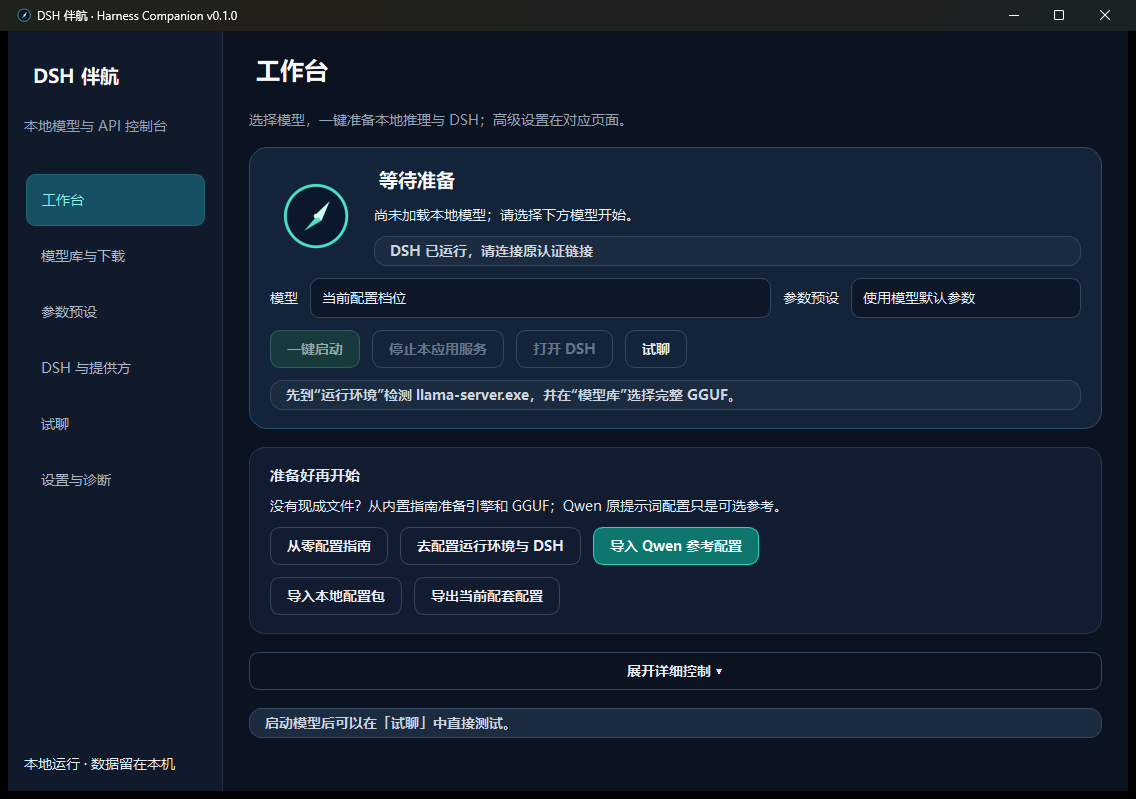
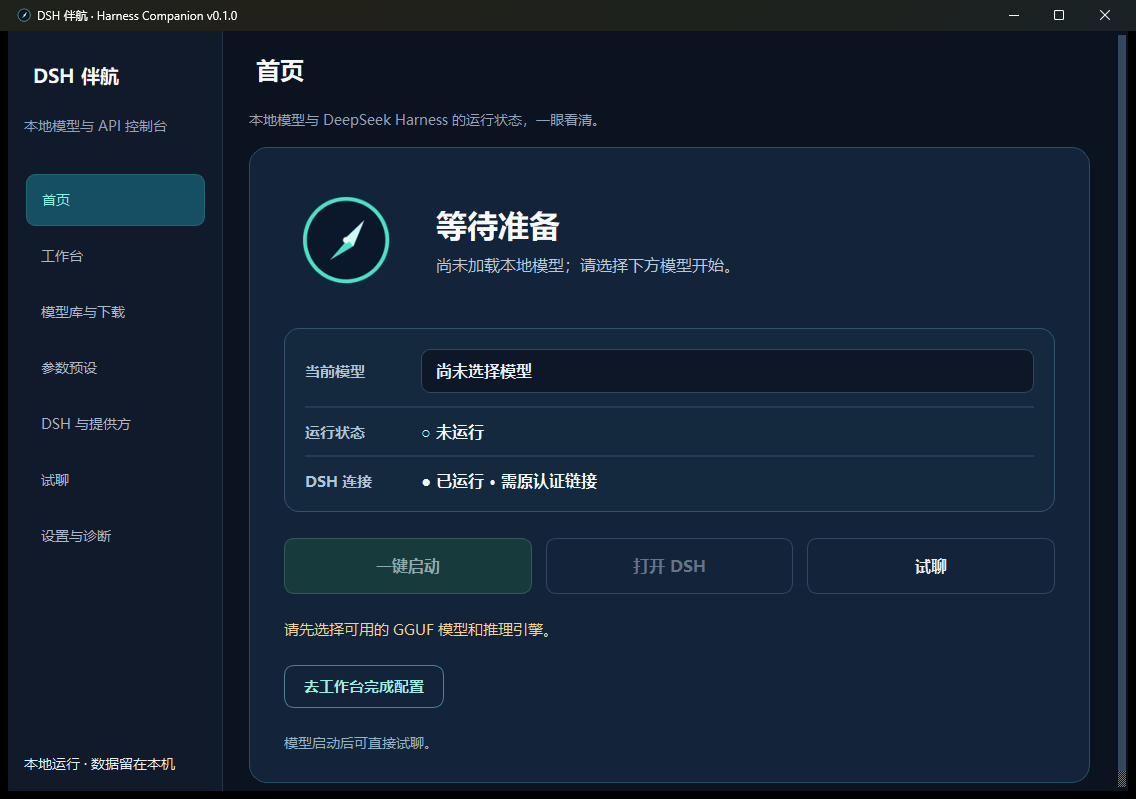
Show redesigned Companion home screen

diff --git a/assets/harness/style.css b/assets/harness/style.css
@@ -1,7 +1,7 @@
 :root{--ink:#16253f;--muted:#68758b;--blue:#3977ed;--teal:#119a9f;--line:#e2eaf4;--paper:#fff;--wash:#f7faff;--radius:22px;--font:Inter,"Noto Sans SC","PingFang SC","Microsoft YaHei UI","Microsoft YaHei",sans-serif}
 *{box-sizing:border-box}html{scroll-behavior:smooth;scroll-padding-top:92px}body{margin:0;background:var(--paper);color:var(--ink);font:15px/1.68 var(--font);-webkit-font-smoothing:antialiased}a{color:inherit;text-decoration:none}button{font:inherit;cursor:pointer}img{display:block;max-width:100%}h1,h2,h3,p,figure{margin:0}.container{width:min(1160px,calc(100% - 64px));margin-inline:auto}:focus-visible{outline:3px solid #6ba4fa;outline-offset:4px;border-radius:6px}.skip-link{position:fixed;left:16px;top:-70px;z-index:50;background:white;padding:10px 15px;border:1px solid var(--blue)}.skip-link:focus{top:14px}
 .site-header{height:76px;border-bottom:1px solid #edf1f7;background:rgba(255,255,255,.96);position:relative;z-index:2}.nav-inner{height:100%;display:flex;align-items:center;gap:17px}.brand{display:flex;align-items:center;gap:9px;font-size:20px;letter-spacing:-.5px;font-weight:750;white-space:nowrap}.brand-wave{width:36px;height:24px;fill:none;stroke:var(--blue);stroke-width:2.2;stroke-linecap:round;stroke-linejoin:round;flex:none}.brand-divider{height:24px;width:1px;background:#d9e2ef}.product-name{font-weight:650;font-size:17px;white-space:nowrap}.nav-links{display:flex;gap:28px;margin-left:auto;font-size:13px;font-weight:600;color:#46556d}.nav-links a:hover,.resource-links a:hover,.text-link:hover,.footer-links a:hover{color:var(--blue)}.nav-status{margin-left:14px;color:#4873ba;background:#edf4ff;padding:6px 11px;border-radius:999px;font-size:11px;white-space:nowrap}
-.hero{overflow:hidden;background:radial-gradient(circle at 85% 34%,#eaf4ff 0,#f8fbff 39%,#fff 68%);border-bottom:1px solid #eef3f9}.hero-grid{min-height:495px;display:grid;grid-template-columns:minmax(0,.92fr) minmax(0,1.08fr);gap:52px;align-items:center;padding-top:52px;padding-bottom:48px}.eyebrow{font-size:11px;letter-spacing:.23em;color:#3977ed;font-weight:750}.hero-copy{position:relative;z-index:1}.hero-copy h1{font-size:clamp(42px,4.6vw,62px);letter-spacing:-.045em;line-height:1.25;margin:24px 0 23px;font-weight:750}.hero-copy h1 span{color:#3374d4}.hero-lead{font-size:18px;color:#41516c;max-width:490px}.hero-actions{display:flex;flex-wrap:wrap;gap:12px;margin-top:28px}.button{display:inline-flex;align-items:center;justify-content:center;gap:15px;border-radius:10px;min-height:48px;padding:0 22px;font-size:14px;font-weight:700;white-space:nowrap;border:1px solid transparent;transition:transform .15s ease,box-shadow .15s ease,background .15s ease}.button:hover{transform:translateY(-2px)}.button-primary{background:linear-gradient(120deg,#168eaa,#129d98);box-shadow:0 9px 23px #1794a329;color:white}.button-primary.pending{opacity:.83;cursor:default}.button-primary.pending:hover{transform:none}.button-secondary{background:white;border-color:#c8d8ed;color:#173957}.button-secondary:hover{box-shadow:0 6px 20px #234a7113}.hero-meta{margin-top:14px;color:#718097;font-size:12px}.hero-figure{position:relative;isolation:isolate;min-width:0}.image-halo{position:absolute;z-index:-1;inset:5% -3% 7% -3%;background:radial-gradient(circle,#d5ecff,transparent 67%);filter:blur(20px)}.hero-figure img{width:100%;height:auto;aspect-ratio:1140/791;object-fit:contain;border:1px solid #9bb1ca;border-radius:13px;box-shadow:0 26px 45px #172b4e35,0 2px 8px #172b4e26;background:#142234}.hero-figure figcaption{text-align:right;color:#7c89a2;font-size:11px;letter-spacing:.04em;margin-top:11px}
+.hero{overflow:hidden;background:radial-gradient(circle at 85% 34%,#eaf4ff 0,#f8fbff 39%,#fff 68%);border-bottom:1px solid #eef3f9}.hero-grid{min-height:495px;display:grid;grid-template-columns:minmax(0,.92fr) minmax(0,1.08fr);gap:52px;align-items:center;padding-top:52px;padding-bottom:48px}.eyebrow{font-size:11px;letter-spacing:.23em;color:#3977ed;font-weight:750}.hero-copy{position:relative;z-index:1}.hero-copy h1{font-size:clamp(42px,4.6vw,62px);letter-spacing:-.045em;line-height:1.25;margin:24px 0 23px;font-weight:750}.hero-copy h1 span{color:#3374d4}.hero-lead{font-size:18px;color:#41516c;max-width:490px}.hero-actions{display:flex;flex-wrap:wrap;gap:12px;margin-top:28px}.button{display:inline-flex;align-items:center;justify-content:center;gap:15px;border-radius:10px;min-height:48px;padding:0 22px;font-size:14px;font-weight:700;white-space:nowrap;border:1px solid transparent;transition:transform .15s ease,box-shadow .15s ease,background .15s ease}.button:hover{transform:translateY(-2px)}.button-primary{background:linear-gradient(120deg,#168eaa,#129d98);box-shadow:0 9px 23px #1794a329;color:white}.button-primary.pending{opacity:.83;cursor:default}.button-primary.pending:hover{transform:none}.button-secondary{background:white;border-color:#c8d8ed;color:#173957}.button-secondary:hover{box-shadow:0 6px 20px #234a7113}.hero-meta{margin-top:14px;color:#718097;font-size:12px}.hero-figure{position:relative;isolation:isolate;min-width:0}.image-halo{position:absolute;z-index:-1;inset:5% -3% 7% -3%;background:radial-gradient(circle,#d5ecff,transparent 67%);filter:blur(20px)}.hero-figure img{width:100%;height:auto;aspect-ratio:1136/799;object-fit:contain;border:1px solid #9bb1ca;border-radius:13px;box-shadow:0 26px 45px #172b4e35,0 2px 8px #172b4e26;background:#142234}.hero-figure figcaption{text-align:right;color:#7c89a2;font-size:11px;letter-spacing:.04em;margin-top:11px}
 .features{border-bottom:1px solid #e9eff7}.feature-grid{display:grid;grid-template-columns:repeat(4,1fr);padding-top:24px;padding-bottom:24px}.feature{display:flex;align-items:center;gap:14px;padding:6px 22px;border-right:1px solid #e6edf7}.feature:first-child{padding-left:0}.feature:last-child{border:0;padding-right:0}.feature-icon{width:48px;height:48px;border-radius:50%;background:#e9f6ff;display:grid;place-items:center;color:#188da8;font-size:24px;font-weight:500;flex:none}.feature h2{font-size:15px;line-height:1.25}.feature p{font-size:11px;color:var(--muted);margin-top:4px;white-space:nowrap}
 .section{padding:74px 0}.steps-section{background:linear-gradient(#f9fbff,#f5f9fe)}.section-heading h2{font-size:36px;line-height:1.3;letter-spacing:-.04em;margin-top:11px}.section-heading p:last-child{color:var(--muted);margin-top:9px}.centered{text-align:center}.steps{list-style:none;margin:44px 0 0;padding:0;display:grid;grid-template-columns:repeat(3,1fr);gap:23px}.steps li{position:relative;background:white;border:1px solid #e4edf8;border-radius:var(--radius);padding:24px 26px 27px;box-shadow:0 13px 35px #29436308}.step-number{color:#3977ed;font-size:21px;font-weight:750}.step-icon{float:right;width:44px;height:44px;border-radius:50%;display:grid;place-items:center;background:#e9f9fc;color:#15969b;font-size:24px}.steps h3{font-size:18px;margin-top:20px}.steps p{color:var(--muted);font-size:13px;margin-top:9px}.resource-strip{display:flex;align-items:center;justify-content:space-between;gap:30px;background:white;border:1px solid var(--line);border-radius:15px;padding:20px 25px;margin-top:26px}.resource-strip strong{font-size:14px}.resource-strip p{font-size:12px;color:var(--muted);margin-top:2px}.resource-links{display:flex;flex-wrap:wrap;justify-content:flex-end;gap:10px 18px;font-size:12px;font-weight:650;color:#2c6bd7}
 .qwen-section{padding-bottom:55px}.qwen-grid{display:grid;grid-template-columns:1fr 1fr;gap:74px;align-items:center}.qwen-copy h2{font-size:34px;letter-spacing:-.04em;line-height:1.42;margin:14px 0 20px}.qwen-copy>p:not(.eyebrow){color:#53647c;max-width:485px}.text-link{display:inline-flex;gap:9px;color:#2f72df;font-weight:700;font-size:14px;margin-top:21px}.recipe-card{background:#f7faff;border:1px solid #d7e5f6;border-radius:15px;padding:20px;box-shadow:0 15px 30px #17395b0b}.recipe-head{display:flex;align-items:center;justify-content:space-between;padding:0 3px 12px}.recipe-head strong{font-size:15px}.recipe-head span{color:#3977ed;background:#e6f0ff;padding:4px 10px;border-radius:99px;font-size:11px}.recipe-row{display:grid;grid-template-columns:110px 1fr;gap:15px;padding:11px 10px;background:white;border-bottom:1px solid #e8eef6;line-height:1.4}.recipe-row:first-of-type{border-radius:9px 9px 0 0}.recipe-row:nth-last-of-type(1){border-radius:0 0 9px 9px;border:0}.recipe-row span{font-size:12px;color:var(--muted)}.recipe-row strong{font-size:12px;font-weight:650}.recipe-card>p{font-size:11px;color:var(--muted);padding:13px 3px 0}.resource-detail{margin-top:53px;border-top:1px solid var(--line);padding-top:32px}.resource-heading h3{font-size:20px}.resource-heading p{color:var(--muted);font-size:13px;margin-top:3px}.resource-list{display:grid;grid-template-columns:1fr 1fr;gap:12px 26px;margin-top:21px}.resource-list>div{display:flex;gap:13px;padding:16px 18px;border:1px solid #e7edf6;border-radius:12px}.resource-num{flex:none;width:26px;height:26px;border-radius:50%;display:grid;place-items:center;background:#eaf3ff;color:#2e70d0;font-weight:750;font-size:13px}.resource-list strong{font-size:14px}.resource-list p{color:var(--muted);font-size:12px;margin-top:4px}.resource-list a{color:#2d6ed4;text-decoration:underline;text-underline-offset:2px}.resource-list code{color:#334c69;background:#f2f6fb;padding:1px 4px;border-radius:3px;overflow-wrap:anywhere}

diff --git a/harness/index.html b/harness/index.html
@@ -42,8 +42,8 @@
         </div>
         <figure class="hero-figure">
           <div class="image-halo" aria-hidden="true"></div>
-          <a class="hero-shot" href="/assets/harness/companion-desktop.png" target="_blank" rel="noopener" aria-label="查看 DSH 伴航工作台截图大图"><img src="/assets/harness/companion-desktop.png" alt="DSH 伴航 Windows 工作台的首次配置状态，尚未加载模型" width="1140" height="791" fetchpriority="high"></a>
-          <figcaption>DSH 伴航真实工作台 · 首次配置状态 · 点击查看大图</figcaption>
+          <a class="hero-shot" href="/assets/harness/companion-desktop.png" target="_blank" rel="noopener" aria-label="查看 DSH 伴航工作台截图大图"><img src="/assets/harness/companion-desktop.png" alt="DSH 伴航 Windows 首页的首次配置状态，尚未加载模型" width="1136" height="799" fetchpriority="high"></a>
+          <figcaption>DSH 伴航新版真实首页 · 首次配置状态 · 点击查看大图</figcaption>
         </figure>
       </div>
     </section>
